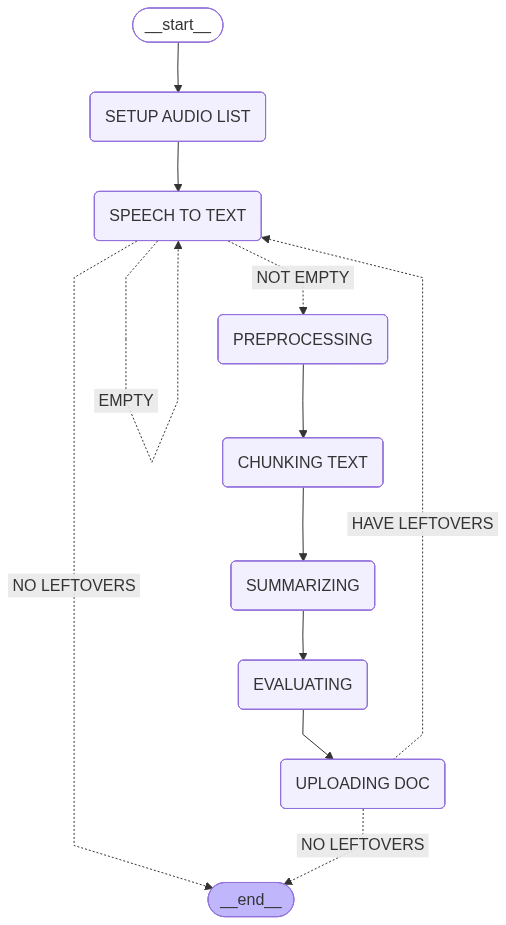
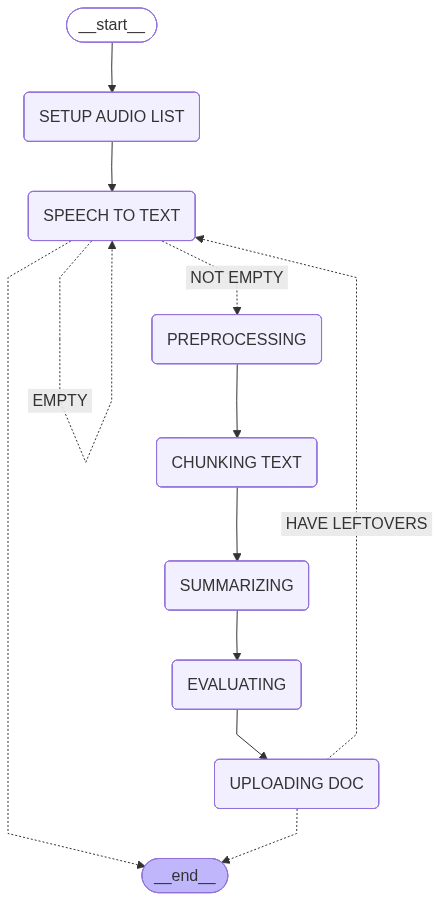
Update summary processing logic; enhance is_empty function and adjust state handling in main workflow

diff --git a/stt_flow.py b/stt_flow.py
@@ -2,6 +2,7 @@ import asyncio
 from dotenv import load_dotenv
 load_dotenv()
 from langgraph.graph import START, END, StateGraph
+from langchain_core.runnables.graph import MermaidDrawMethod
 from state import SummaryState
 from node.lister import list_blobs_in_bucket
 from node.speech_to_text import batch_recognize_gcs, summarize_document, get_existing_raw
@@ -39,8 +40,8 @@ async def main():
     is_empty,
         {
             "NOT EMPTY": "PREPROCESSING",
-            "EMPTY" : "SPEECH TO TEXT",
-            "NO LEFTOVERS": END
+            "HAVE LEFTOVERS": "SPEECH TO TEXT",
+            END: END
         }
     )
     # Check is there available input uris
@@ -49,7 +50,7 @@ async def main():
     should_continue,
         {
             "HAVE LEFTOVERS": "SPEECH TO TEXT",
-            "NO LEFTOVERS" : END,
+            END : END,
         }
     )
     
@@ -57,18 +58,12 @@ async def main():
     app = workflow.compile()
 
     # Create a visual of the graph
-    app.get_graph().draw_mermaid_png(output_file_path="assets/summary_graph.png")
+    # app.get_graph().draw_mermaid_png(output_file_path="assets/summary_graph.png")
 
     client = initialize_gcs_client()
     initial_state = {
         "gcs_client": client,
         "index": 0,
-        # "input_uris": [
-        #     "gs://cbm-cgs-acb-km-assets/km-video/standard_output.wav",
-        #     # "gs://cbm-cgs-acb-km-assets/km-video/test_movefile/Day2.wav",
-        #     # "gs://cbm-cgs-acb-km-assets/km-video/อบรม Burner Design & Operation (TP Training_วชช.ผลิต)-20241028_083859-Meeting Recording.wav"
-        # ],
-        # "gcs_output_path": "gs://cbm-cgs-acb-km-assets/km-video/results/"
     }
     
     _ = await app.ainvoke(initial_state)

diff --git a/edge/summary.py b/edge/summary.py
@@ -9,12 +9,15 @@ from state import SummaryState
 
 def is_empty(state: SummaryState):
     raw_text = state.get("raw_text", None)
+    
     if not raw_text:
-        print("\033[91mText is empty, skip this audio\033[00m")
-        if state["index"] == len(state["input_uris"]):
+        print("\033[91mText is empty, skipping this audio...\033[00m")
+        # index is already incremented in batch_recognize_gcs
+        if state["index"] < len(state["input_uris"]):
+            return "HAVE LEFTOVERS"   # move to next file
+        else:
             print("\033[91mNo leftovers\033[00m")
-            return "NO LEFTOVERS"
-        return "EMPTY"
+            return END
     else:
         return "NOT EMPTY"
     
@@ -23,4 +26,4 @@ def should_continue(state: SummaryState):
         return "HAVE LEFTOVERS"
     else:
         print("\033[91mNo leftovers\033[00m")
-        return "NO LEFTOVERS"
+        return END
